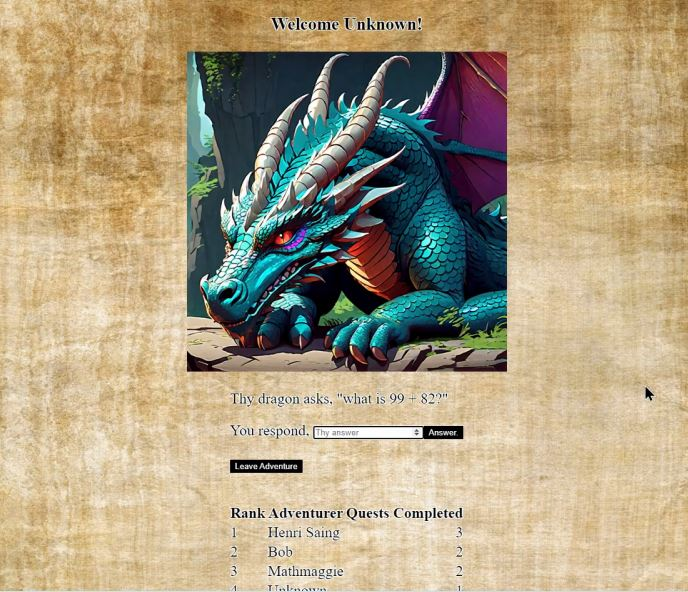
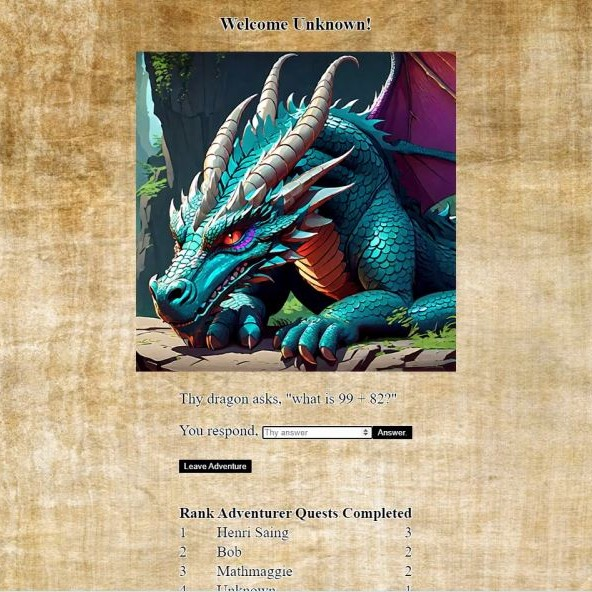
Crops some images. Adds book report to projects.

diff --git a/index.html b/index.html
@@ -261,6 +261,11 @@
                 link:['url', 'http://shotclock.uisnotc.com/home', 'https://github.com/henrisaing/shot_clock']
               },
               {
+                name: "BookReport",
+                frame: ['React'],
+                link:['img', "assets/BookReport.JPG", "https://github.com/henrisaing/bookreport"]
+              },
+              {
                 name: "BattleshipBot",
                 frame: ['Java'],
                 link:['img', "assets/Sharkvester.png", "TBA"]
